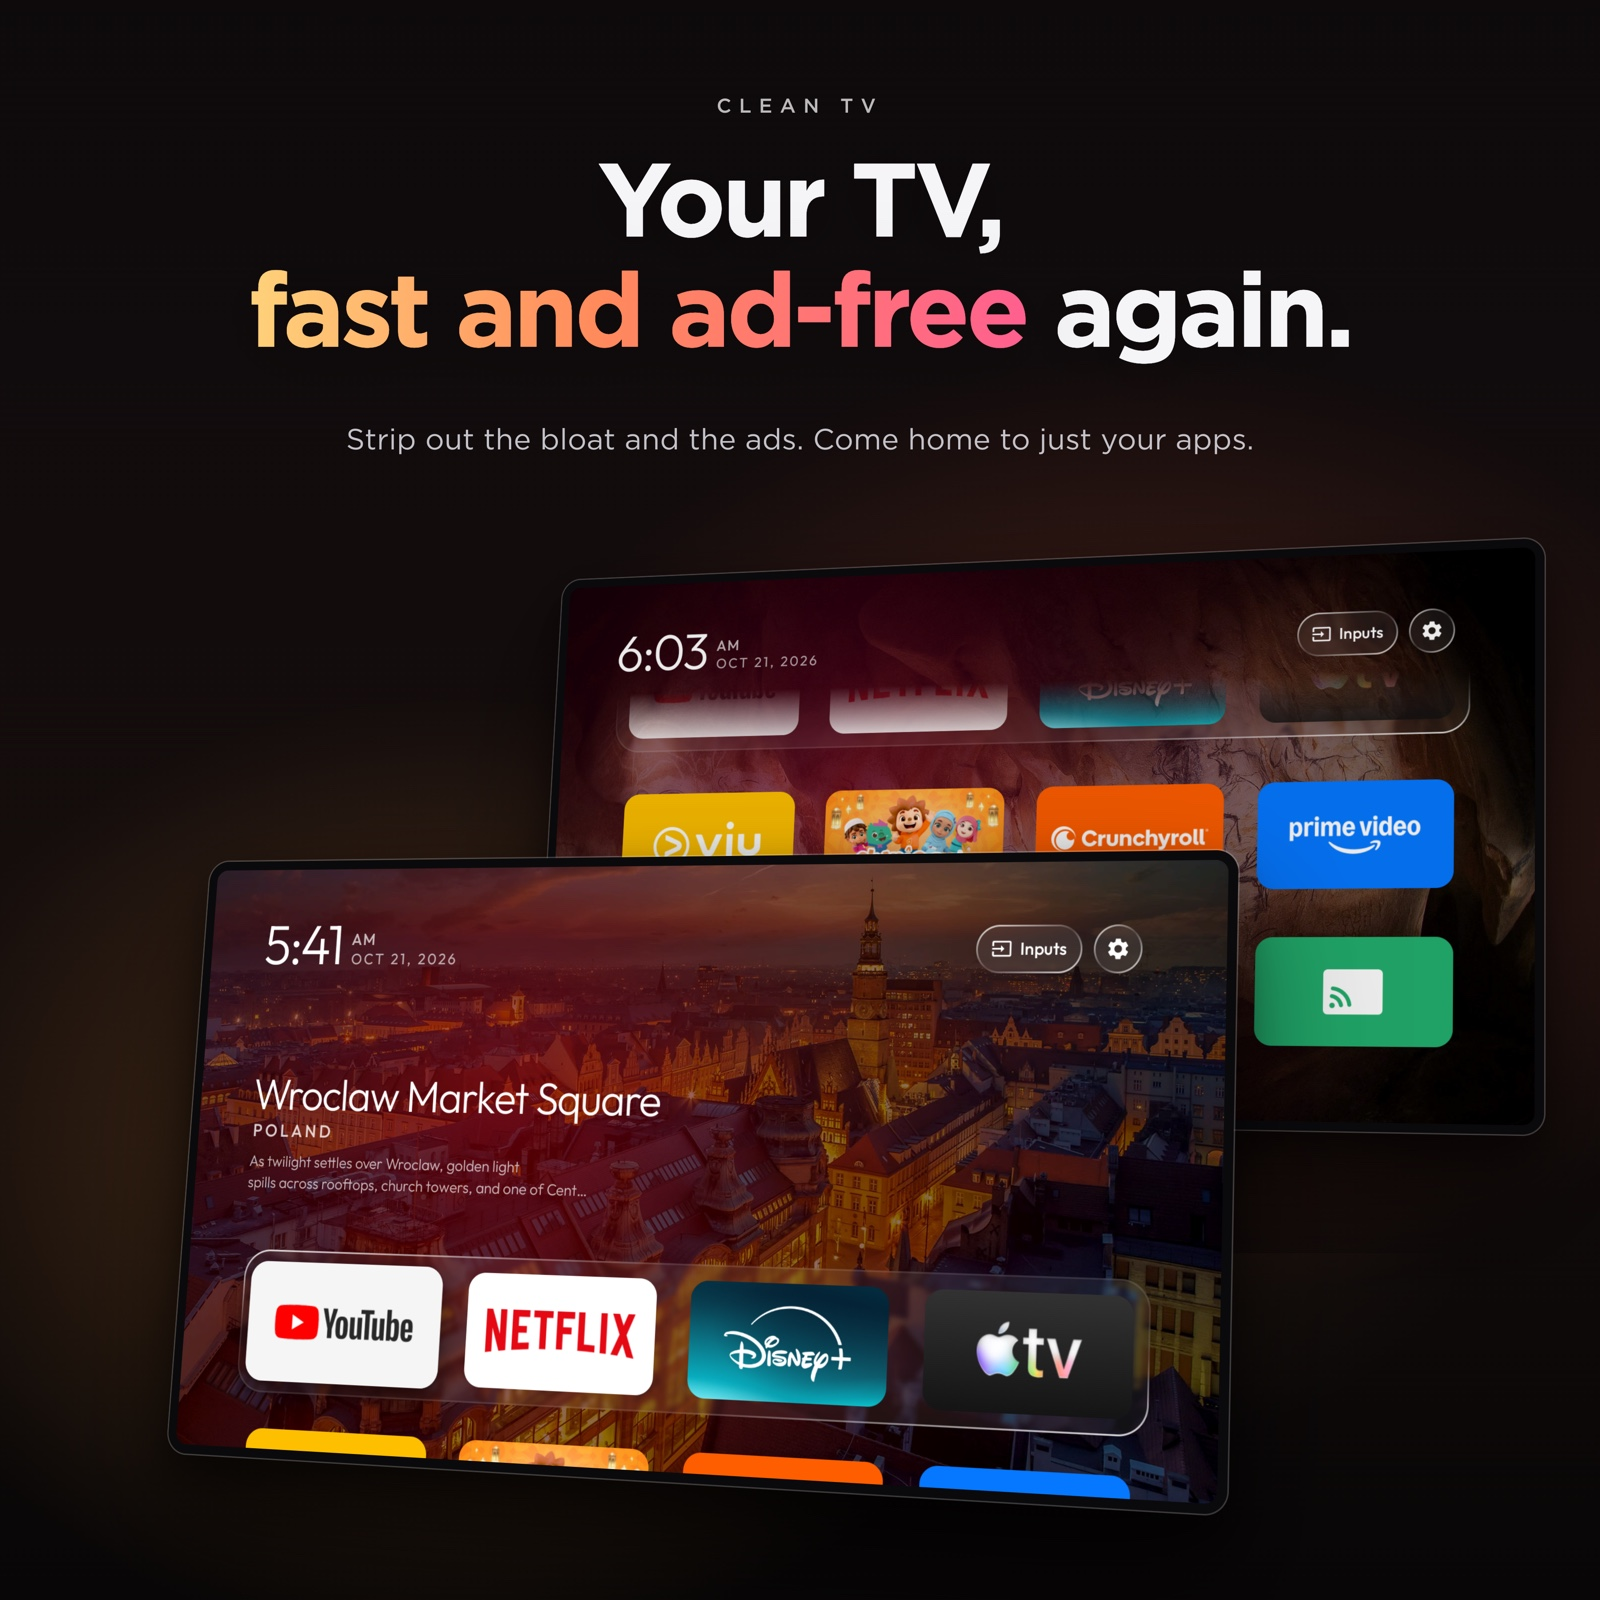
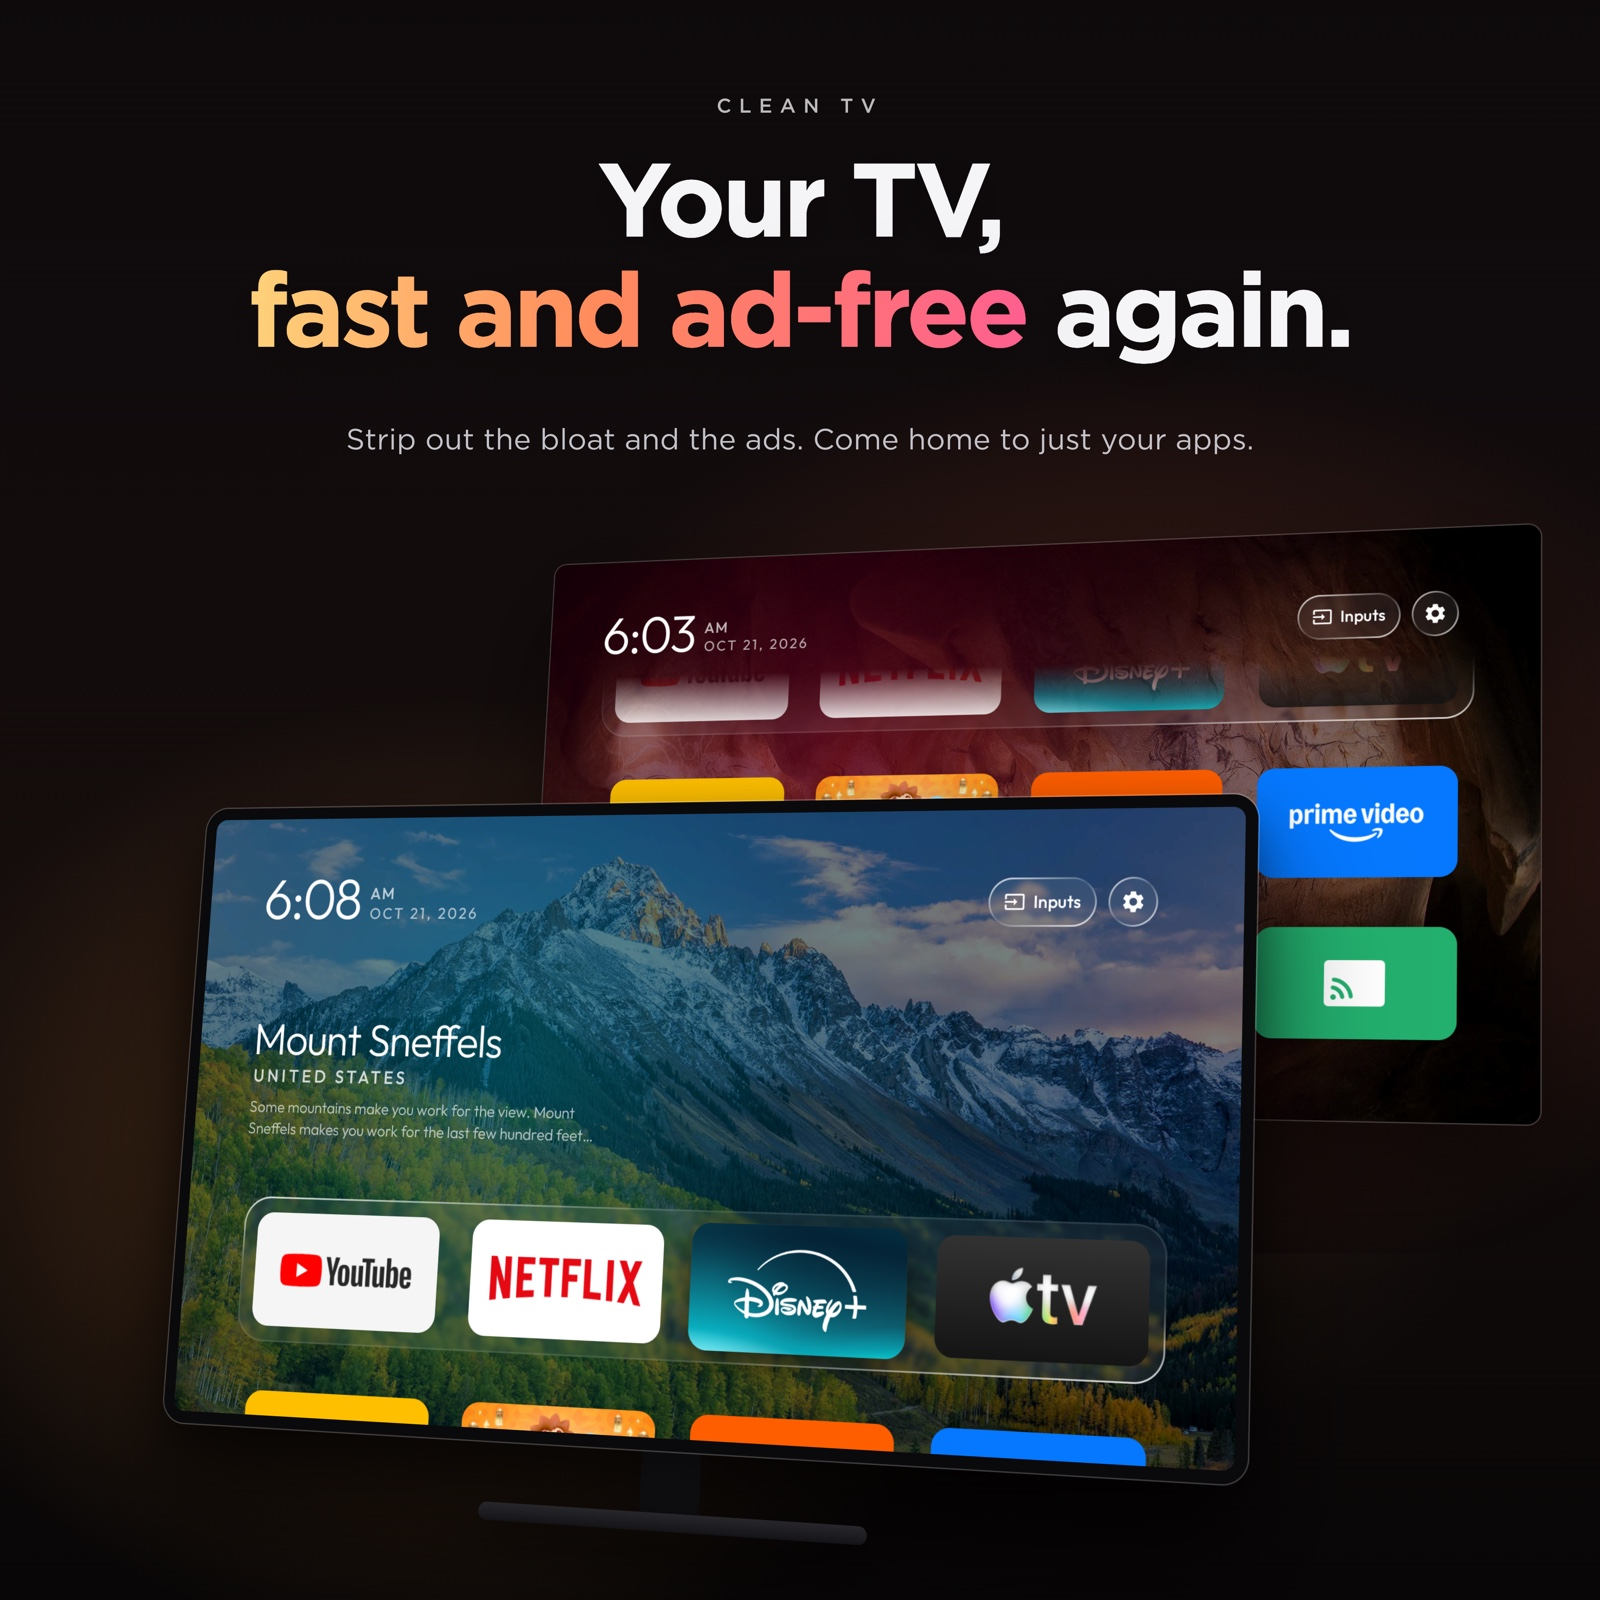
First promo picture: one TV, Home over Mount Sneffels with the scrolled grid behind

Changed region(s): [[0.0938, 0.3438, 0.9688, 0.9688], [0.875, 0.3125, 0.9688, 0.3438], [0.9062, 0.5938, 0.9375, 0.625]]

diff --git a/README.md b/README.md
@@ -9,7 +9,7 @@ and swap the ad-filled home screen for a light Apple TV-style launcher — and a
 new set of places every week.
 
 <p>
-  <img src="docs/screenshots/promo-1-home.jpg" width="32%" alt="Your TV, fast and ad-free again: Home, and the full grid of apps scrolled down">
+  <img src="docs/screenshots/promo-1-home.jpg" width="32%" alt="Your TV, fast and ad-free again: Home over Mount Sneffels, with the scrolled app grid stacked behind">
   <img src="docs/screenshots/promo-2-clock.jpg" width="32%" alt="Ads off, time on: the clock screensaver">
   <img src="docs/screenshots/promo-3-features.jpg" width="32%" alt="Looks like Apple, runs on Android: glass, Inputs, a place a week, your own app order, no ads">
 </p>
